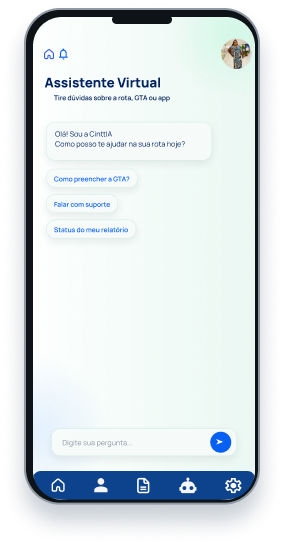
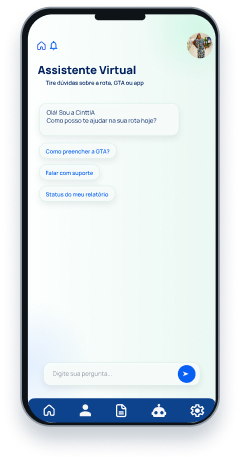
fix/DS/EFFICIENTI-10/alinha-funcionalidades-ao-figma

diff --git a/src/main/webapp/index.html b/src/main/webapp/index.html
@@ -6,7 +6,7 @@
     <meta name="viewport" content="width=device-width, initial-scale=1.0">
     <title>Efficientia</title>
     <link rel="stylesheet" href="css/style.css?v=3">
-    <link rel="stylesheet" href="css/funcionalidades.css?v=1">
+    <link rel="stylesheet" href="css/funcionalidades.css?v=2">
     <link rel="preconnect" href="https://fonts.googleapis.com">
     <link rel="preconnect" href="https://fonts.gstatic.com" crossorigin>
     <link href="https://fonts.googleapis.com/css2?family=IBM+Plex+Sans:ital,wght@0,100..700;1,100..700&family=Manrope:wght@200..800&display=swap"
@@ -259,13 +259,19 @@
         </div>
 
         <div class="funcionalidades-mockups">
-            <img class="funcionalidades-fundo" src="assets/funcionalidades-fundo.svg" alt="" width="880" height="674" loading="lazy">
+            <img class="funcionalidades-fundo" src="assets/funcionalidades-fundo.svg" alt="" width="916" height="790" loading="lazy">
+            <img class="funcionalidades-guia funcionalidades-guia-dashboard" src="assets/funcionalidades-guia-dashboard.svg" alt="" width="1" height="80" loading="lazy">
+            <img class="funcionalidades-guia funcionalidades-guia-chat" src="assets/funcionalidades-guia-chat.svg" alt="" width="57" height="73" loading="lazy">
+            <img class="funcionalidades-ponto funcionalidades-ponto-dashboard-inicio" src="assets/funcionalidades-ponto.svg" alt="" width="6" height="6" loading="lazy">
+            <img class="funcionalidades-ponto funcionalidades-ponto-dashboard-fim" src="assets/funcionalidades-ponto.svg" alt="" width="6" height="6" loading="lazy">
+            <img class="funcionalidades-ponto funcionalidades-ponto-chat-inicio" src="assets/funcionalidades-ponto.svg" alt="" width="6" height="6" loading="lazy">
+            <img class="funcionalidades-ponto funcionalidades-ponto-chat-fim" src="assets/funcionalidades-ponto.svg" alt="" width="6" height="6" loading="lazy">
             <figure class="funcionalidades-dashboard">
                 <img class="funcionalidades-produto" src="assets/funcionalidades-dashboard.png"
                      alt="Dashboard atual do Efficientia com indicadores, gráficos, fila de análise, alertas e rotas em andamento."
-                     width="856" height="650" loading="lazy" decoding="async">
+                     width="854" height="586" loading="lazy" decoding="async">
                 <figcaption>
-                    <img src="assets/funcionalidades-grafico.svg" alt="" width="32" height="29" loading="lazy">
+                    <img src="assets/funcionalidades-grafico.svg" alt="" width="64" height="64" loading="lazy">
                     <div>
                         <h3>Dashboards operacionais</h3>
                         <p>Visão completa da operação em tempo real.</p>
@@ -275,12 +281,12 @@
             <figure class="funcionalidades-app">
                 <img class="funcionalidades-produto" src="assets/funcionalidades-app-v2.png"
                      alt="Assistente Virtual na versão atual do app, com orientações sobre a rota, GTA e uso do aplicativo."
-                     width="284" height="545" loading="lazy" decoding="async">
+                     width="241" height="461" loading="lazy" decoding="async">
                 <figcaption>
-                    <img src="assets/funcionalidades-chat.svg" alt="" width="40" height="39" loading="lazy">
+                    <img src="assets/funcionalidades-chat.svg" alt="" width="80" height="80" loading="lazy">
                     <div>
                         <h3>Chatbot de apoio</h3>
-                        <p>Tire dúvidas durante o preenchimento.</p>
+                        <p>Tire dúvidas e receba orientações na hora.</p>
                     </div>
                 </figcaption>
             </figure>

diff --git a/src/main/webapp/css/funcionalidades.css b/src/main/webapp/css/funcionalidades.css
@@ -116,8 +116,8 @@
 .funcionalidades-fundo {
     position: absolute;
     left: -2.2321%;
-    top: 4.6296%;
-    width: 98.2143%;
+    top: 0;
+    width: 102.2321%;
     height: auto;
     pointer-events: none;
 }
@@ -135,33 +135,72 @@
 .funcionalidades-dashboard > .funcionalidades-produto {
     left: -2.6786%;
     top: 11.5741%;
-    width: 95.5357%;
+    width: 95.3125%;
 }
 
 .funcionalidades-app > .funcionalidades-produto {
-    left: 68.75%;
-    top: 33.3333%;
-    width: 31.6964%;
+    left: 73.6607%;
+    top: 35.3009%;
+    width: 26.8973%;
+}
+
+.funcionalidades-guia,
+.funcionalidades-ponto {
+    position: absolute;
+    pointer-events: none;
+}
+
+.funcionalidades-guia-dashboard {
+    left: 17.8013%;
+    top: 73.6111%;
+    width: 1px;
+    height: 9.2593%;
+}
+
+.funcionalidades-guia-chat {
+    left: 69.5871%;
+    top: 81.4236%;
+    width: 6.306%;
+    height: 8.3912%;
+}
+
+.funcionalidades-ponto {
+    width: 0.6696%;
+    height: auto;
+}
+
+.funcionalidades-ponto-dashboard-inicio,
+.funcionalidades-ponto-dashboard-fim {
+    left: 17.5223%;
+}
+
+.funcionalidades-ponto-dashboard-inicio { top: 73.2639%; }
+.funcionalidades-ponto-dashboard-fim { top: 82.5231%; }
+.funcionalidades-ponto-chat-inicio { left: 75.558%; top: 81.1343%; }
+.funcionalidades-ponto-chat-fim { left: 69.308%; top: 89.4676%; }
+
+.funcionalidades-mockups figcaption > div {
+    min-width: 0;
 }
 
 .funcionalidades-mockups figcaption {
     position: absolute;
     display: flex;
-    gap: 8px;
+    gap: 12px;
 }
 
 .funcionalidades-dashboard figcaption {
-    left: 8.9286%;
+    left: 14.2857%;
     top: 84.2593%;
-    width: 50.2232%;
+    width: 46.875%;
     flex-direction: column;
     align-items: flex-start;
 }
 
 .funcionalidades-app figcaption {
-    left: 59.7098%;
-    top: 94.3287%;
-    width: 39.0625%;
+    left: 65.1786%;
+    top: 91.6667%;
+    width: 34.8214%;
     align-items: center;
     gap: 16px;
 }
@@ -177,7 +216,7 @@
 }
 
 .funcionalidades-app figcaption p {
-    max-width: 260px;
+    max-width: 216px;
 }
 
 @media (max-width: 1200px) {
@@ -203,6 +242,20 @@
 
     .funcionalidades h3 {
         font-size: var(--font-size-16);
+    }
+
+    .funcionalidades-dashboard figcaption > img {
+        width: 48px;
+        height: 48px;
+    }
+
+    .funcionalidades-app figcaption > img {
+        width: 60px;
+        height: 60px;
+    }
+
+    .funcionalidades-app figcaption {
+        gap: 12px;
     }
 
     .funcionalidades-lista p,
@@ -249,11 +302,12 @@
         content: "";
         grid-column: 1 / -1;
         width: 100%;
-        aspect-ratio: 896 / 864;
+        aspect-ratio: 896 / 792;
     }
 
-    .funcionalidades-fundo {
-        top: 0;
+    .funcionalidades-guia,
+    .funcionalidades-ponto {
+        display: none;
     }
 
     .funcionalidades-dashboard > .funcionalidades-produto {
@@ -262,7 +316,7 @@
 
     .funcionalidades-app > .funcionalidades-produto {
         top: 0;
-        transform: translateY(38%);
+        transform: translateY(58%);
     }
 
     .funcionalidades-mockups figcaption {
@@ -274,8 +328,8 @@
     }
 
     .funcionalidades-mockups figcaption > img {
-        width: 32px;
-        height: auto;
+        width: 48px;
+        height: 48px;
     }
 
     .funcionalidades h3 {

diff --git a/design-qa.md b/design-qa.md
@@ -1,5 +1,18 @@
 # Conferência — seção de funcionalidades
 
+## Atualização da composição — 22/10/2026
+
+- Referência: mesma seção do Figma, após correção baseada na segunda imagem aprovada.
+- HTML/CSS atualizado com fundo orgânico, dashboard horizontal, celular menor, círculos dos ícones e conectores com pontos. Legendas mantêm a disposição individual do Figma.
+- Assets exportados novamente dos mockups atuais; textos continuam em HTML. Onze arquivos locais utilizados, todos carregados e com proporções verificadas.
+- Evidências atuais: `funcionalidades-atualizada-desktop.png`, `funcionalidades-atualizada-390.png` e `funcionalidades-atualizada-preview.png`, na pasta de artefatos abaixo. As capturas e observações das seções seguintes correspondem à entrega anterior.
+- Conferidos desktop em 1440px e celular em 390px; também verificados limites em 360, 430, 860, 862, 1300 e 1920px, sem transbordamento horizontal nem legendas ultrapassando o fim da seção. A solicitação de 861px foi arredondada pelo navegador para 862px.
+- Menu mobile abriu e fechou ao navegar à âncora. Seta seguinte e indicador da terceira etapa do carrossel responderam em 860px. Nenhum erro no console durante a conferência.
+- Breakpoint de 860px preservado; CSS global, demais seções e JavaScript não alterados. Conectores decorativos ficam ocultos no mobile, onde as legendas seguem o fluxo do conteúdo.
+- Comparação visual com a captura atual do Figma: composição conferida, sem sobreposição entre mockups e legendas. Fontes e quebra de texto adaptam-se à largura disponível.
+
+## Registro da entrega anterior
+
 ## Referência e escopo
 
 - Figma: [Desktop 145 / Funcionalidades](https://www.figma.com/design/EBSgjcvj39hdmO1wZNIAr1/Efficientia---inter-2026?node-id=4585-215).
